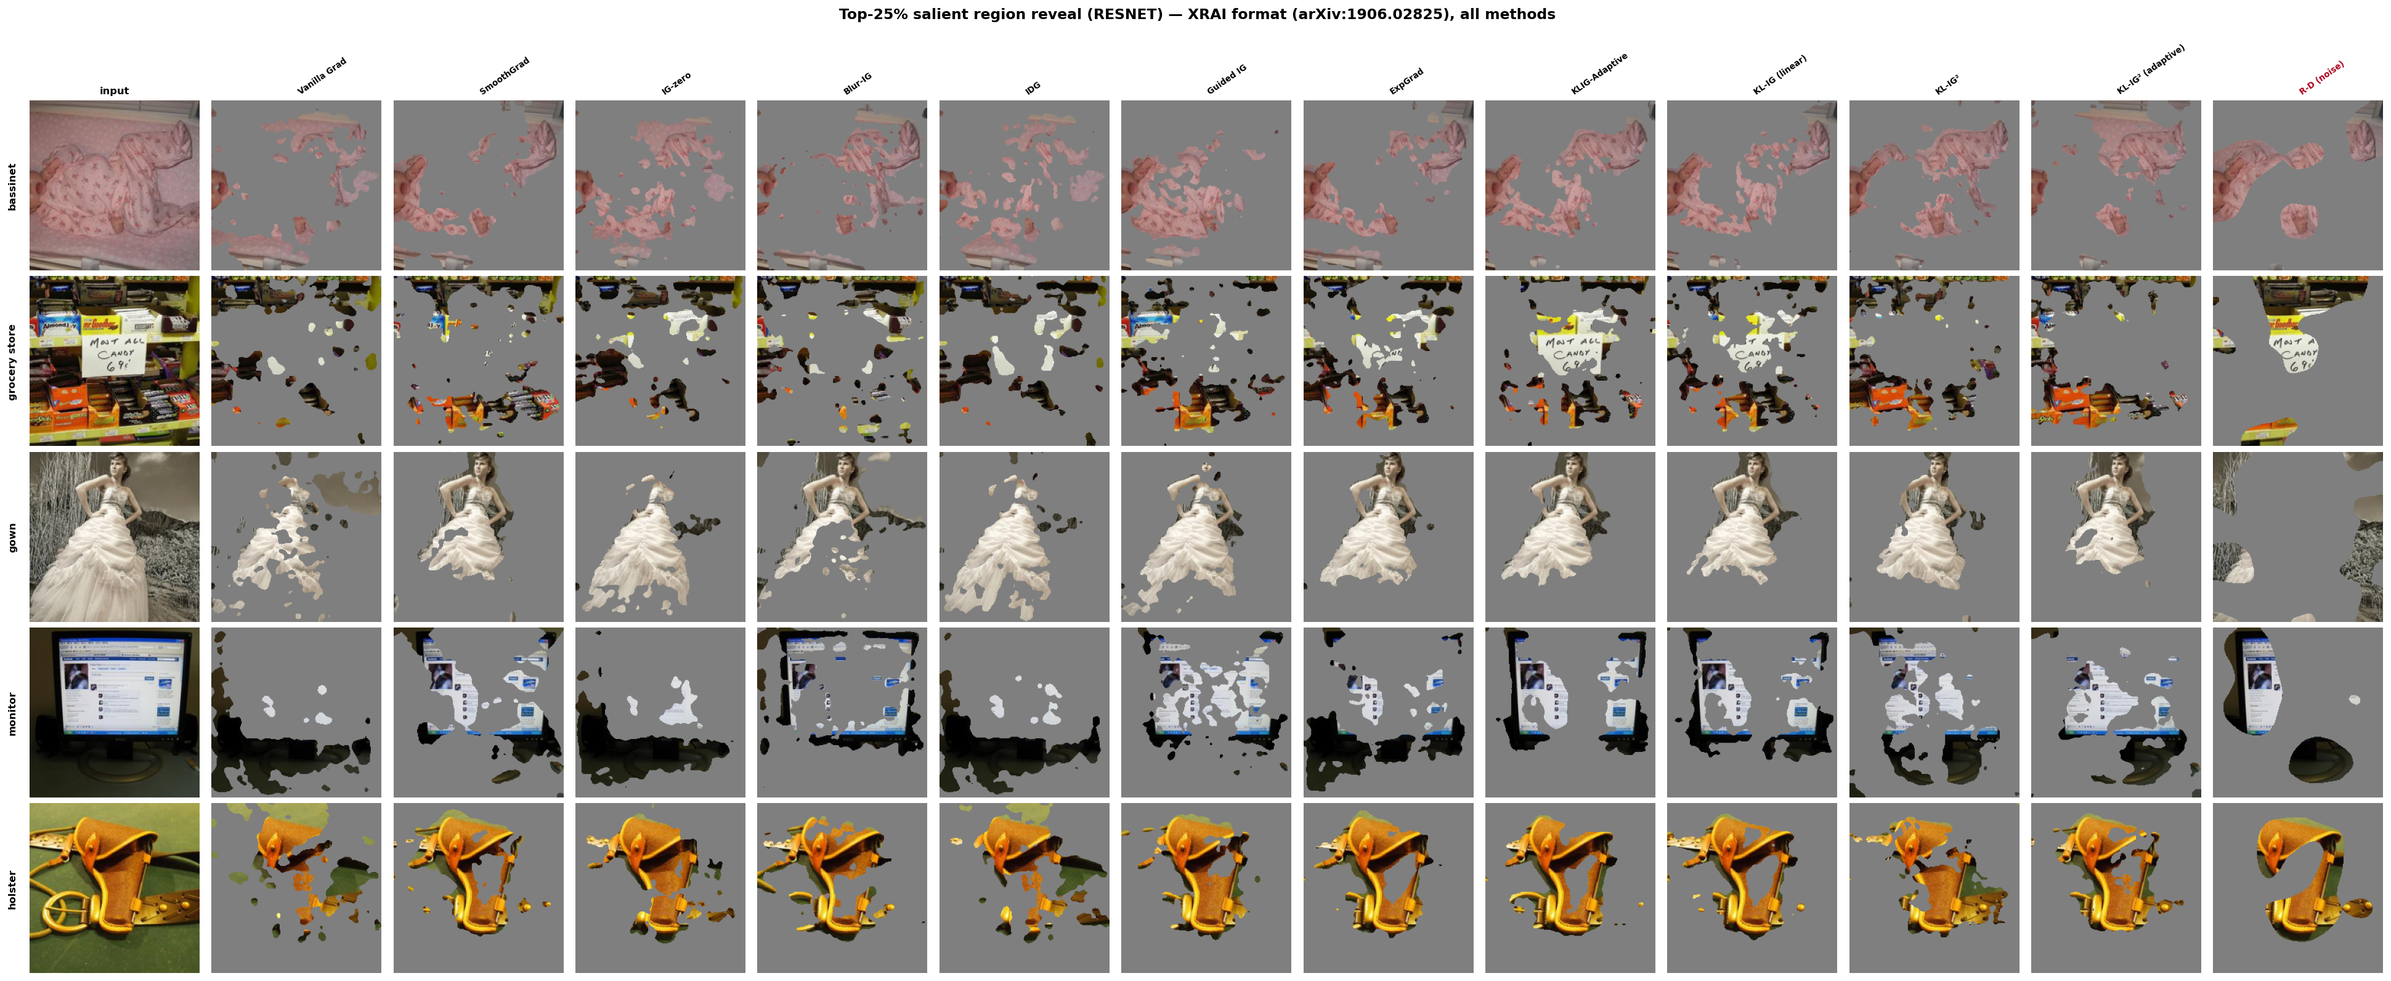
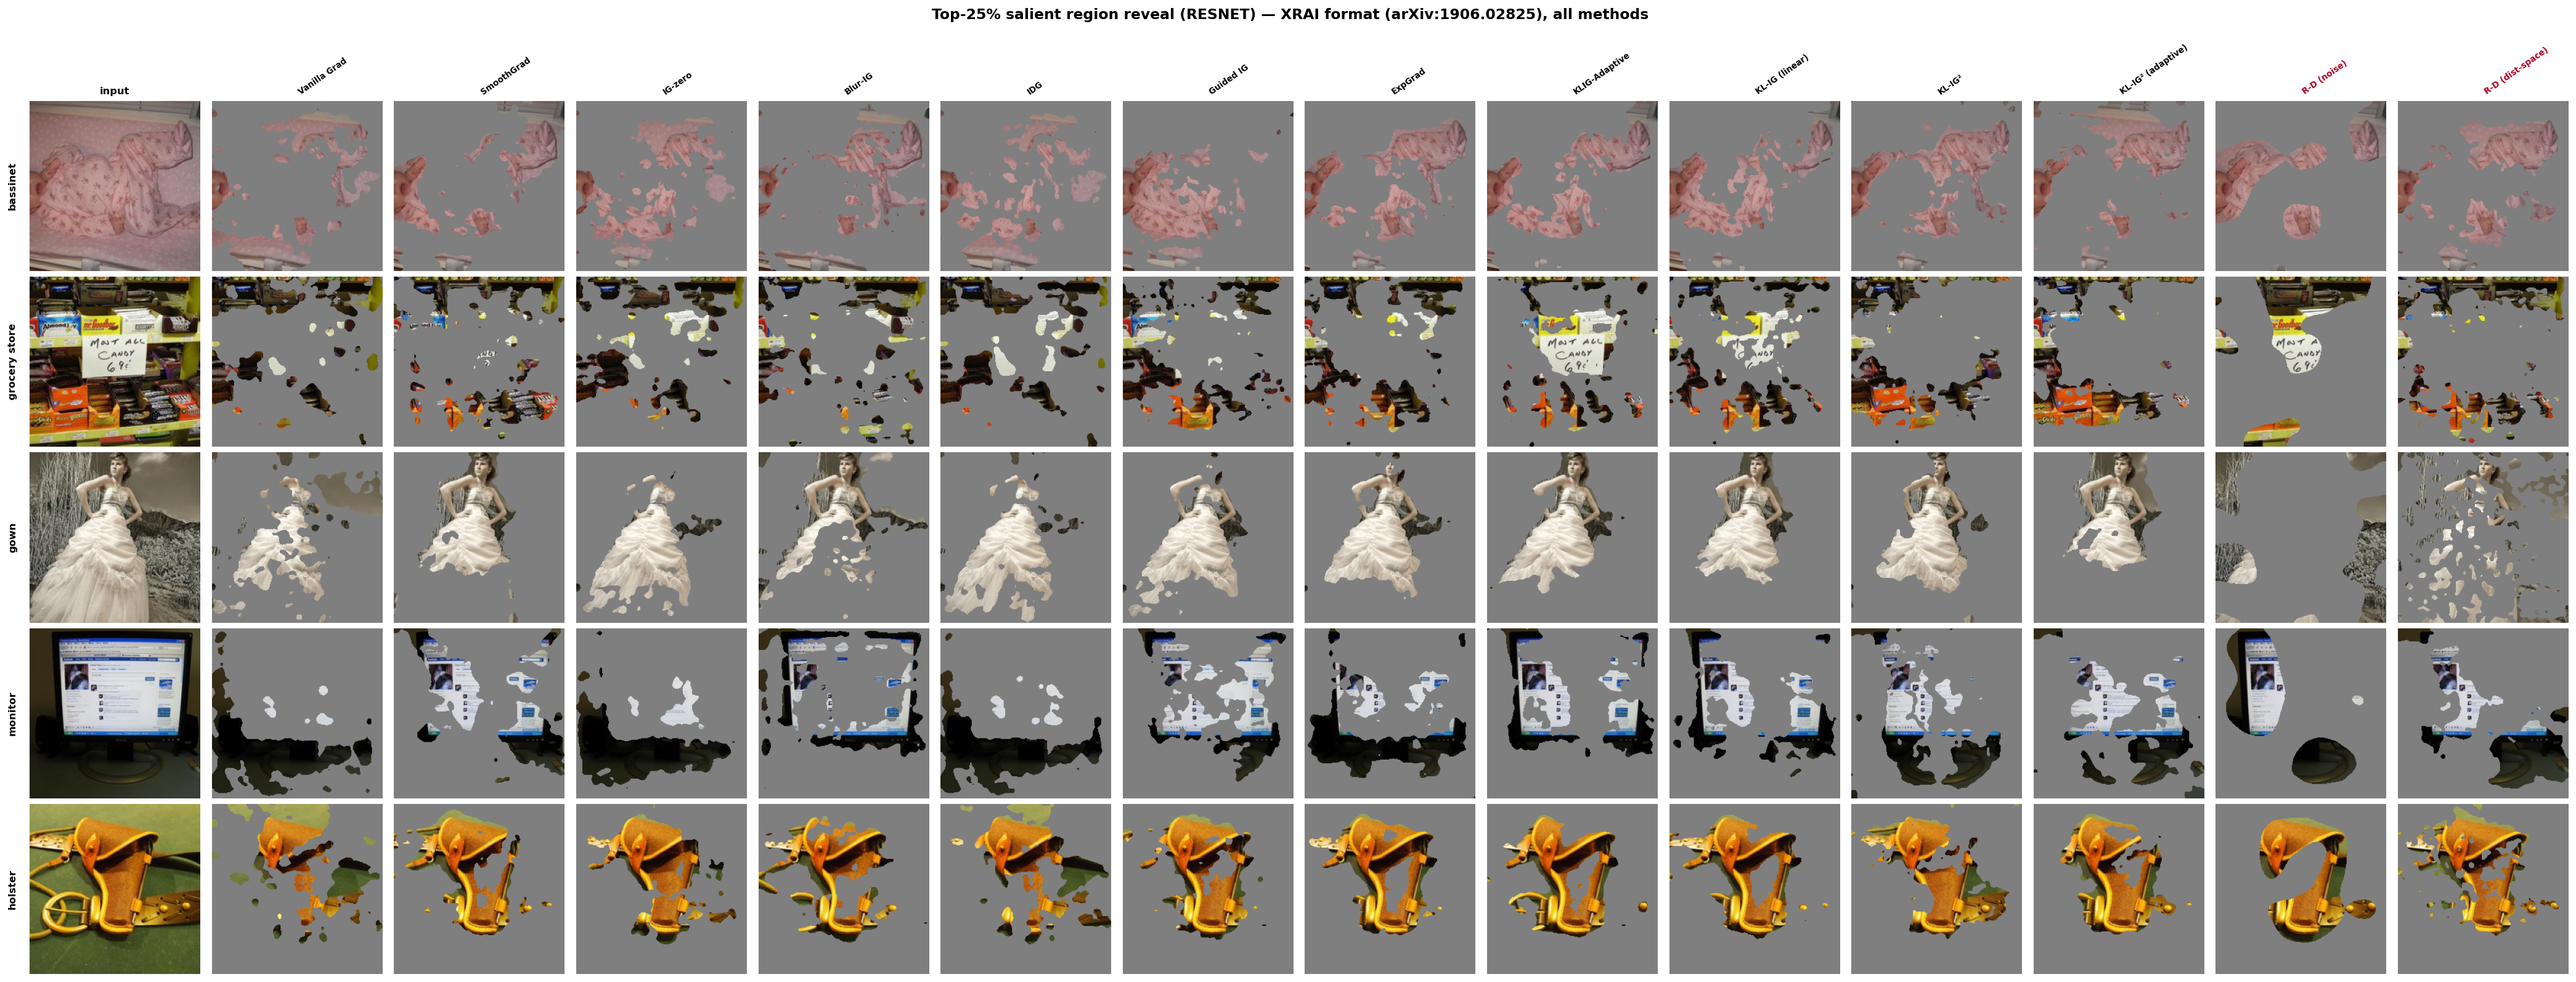
Add dist-space R-D column to all-methods XRAI figure
Now shows both R-D variants: noise-RISE and the new distribution-space
rate-allocation metric, alongside the 11 roster methods.

diff --git a/infocube-main/rd_xrai_all_methods.py b/infocube-main/rd_xrai_all_methods.py
@@ -17,6 +17,7 @@ DEVICE = torch.device('cuda' if torch.cuda.is_available() else 'cpu')
 import klig_methods as KM
 from klig_methods import attr_map, METHODS as _ALL, make_phi
 import rd_attribution as RD
+import rd_distspace as RDS
 if ARCH == 'vit':
     from torchvision.models import vit_b_16, ViT_B_16_Weights
     _w = ViT_B_16_Weights.IMAGENET1K_V1; model = vit_b_16(weights=_w).to(DEVICE).eval()
@@ -42,7 +43,8 @@ for d in pool: cf_by.setdefault(d['y1'], d['x'])
 sel = pool[:K]
 PO = ['Vanilla Grad','SmoothGrad','IG-zero','Blur-IG','IDG','Guided IG','ExpGrad',
       'KLIG-Adaptive','KL-IG (linear)','KL-IG²','KL-IG² (adaptive)']
-METHODS = [m for m in PO if m in _ALL] + [m for m in _ALL if m not in PO] + ['R-D (noise)']
+METHODS = [m for m in PO if m in _ALL] + [m for m in _ALL if m not in PO] + ['R-D (noise)', 'R-D (dist-space)']
+_rds_cfg = RDS.RDConfig(n_mc=8, n_iter=150)
 print(f'[setup] arch={ARCH} {len(sel)} imgs × {len(METHODS)} methods, top-{int(FRAC*100)}% reveal')
 
 def denorm(x): return (x*_std+_mean).clamp(0,1).permute(1,2,0).cpu().numpy()
@@ -57,7 +59,9 @@ for d in tqdm(sel, desc='maps'):
     xn = d['x'].to(DEVICE); tgt = int(model(xn.unsqueeze(0))[0].argmax()); xcf = (cf_by.get(d['y2'], pool[0]['x'])).to(DEVICE)
     x01 = (d['x']*_std+_mean).clamp(0,1).unsqueeze(0).to(DEVICE)
     for m in METHODS:
-        if m.startswith('R-D'):
+        if m == 'R-D (dist-space)':
+            maps[m].append(RDS.rd_attribution(model, xn.unsqueeze(0), tgt, _rds_cfg)['attribution'].cpu().numpy())
+        elif m.startswith('R-D'):
             maps[m].append(RD.rise_smooth_map(wrap, x01, RD.NoiseOperator(), 0.5, tgt, n_masks=3000, s=8, seed=0))
         else:
             try: maps[m].append(attr_map(m, model, xn, tgt, x_cf=xcf, phi=phi).detach().cpu().numpy())
